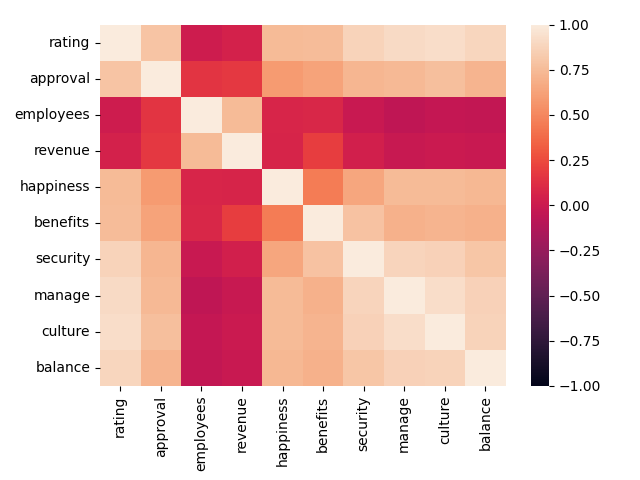
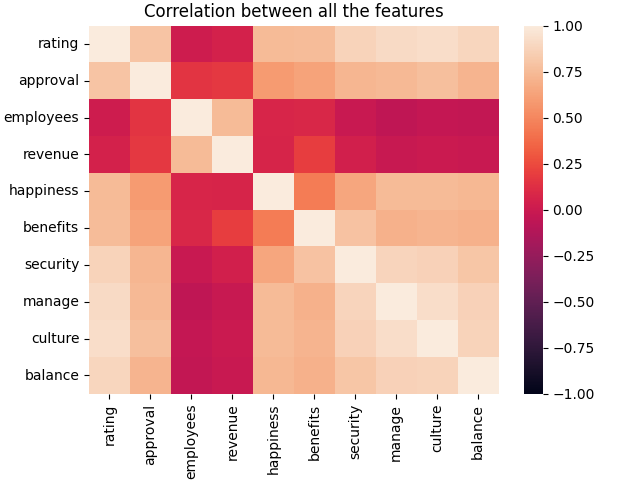
fixed paper image of all correlation

Changed region(s): [[0.0, 0.0, 0.9375, 1.0]]

diff --git a/src/analyzeGraphs.py b/src/analyzeGraphs.py
@@ -6,7 +6,7 @@ import matplotlib.pyplot as plt
 import seaborn as sns
 
 # ======== read data set ========
-company_data = pd.read_csv("../assets/processed_reviews.csv")
+company_data = pd.read_csv("./assets/processed_reviews.csv")
 
 # ======== Fill empty values with NaN ========
 company_data = company_data.fillna(np.nan)
@@ -217,7 +217,7 @@ def show_factors_distribution():
 
 # ======== Correlation of happiness parameters with rating ========
 def show_happiness_correlation():
-    company_data_with_happiness = pd.read_csv("../assets/cleaned_reviews.csv")
+    company_data_with_happiness = pd.read_csv("./assets/cleaned_reviews.csv")
 
     company_data_with_happiness['happiness'] = company_data_with_happiness['happiness'].fillna(value = "{}")
     happiness = company_data_with_happiness.happiness.tolist()
@@ -318,5 +318,5 @@ if (save_imgs):
     show_boxplot_ceo_approval_rating_correlation()
     show_custom_ratings_distribution()
 else:
-    show_custom_ratings_distribution()
+    show_all_correlation()
 
